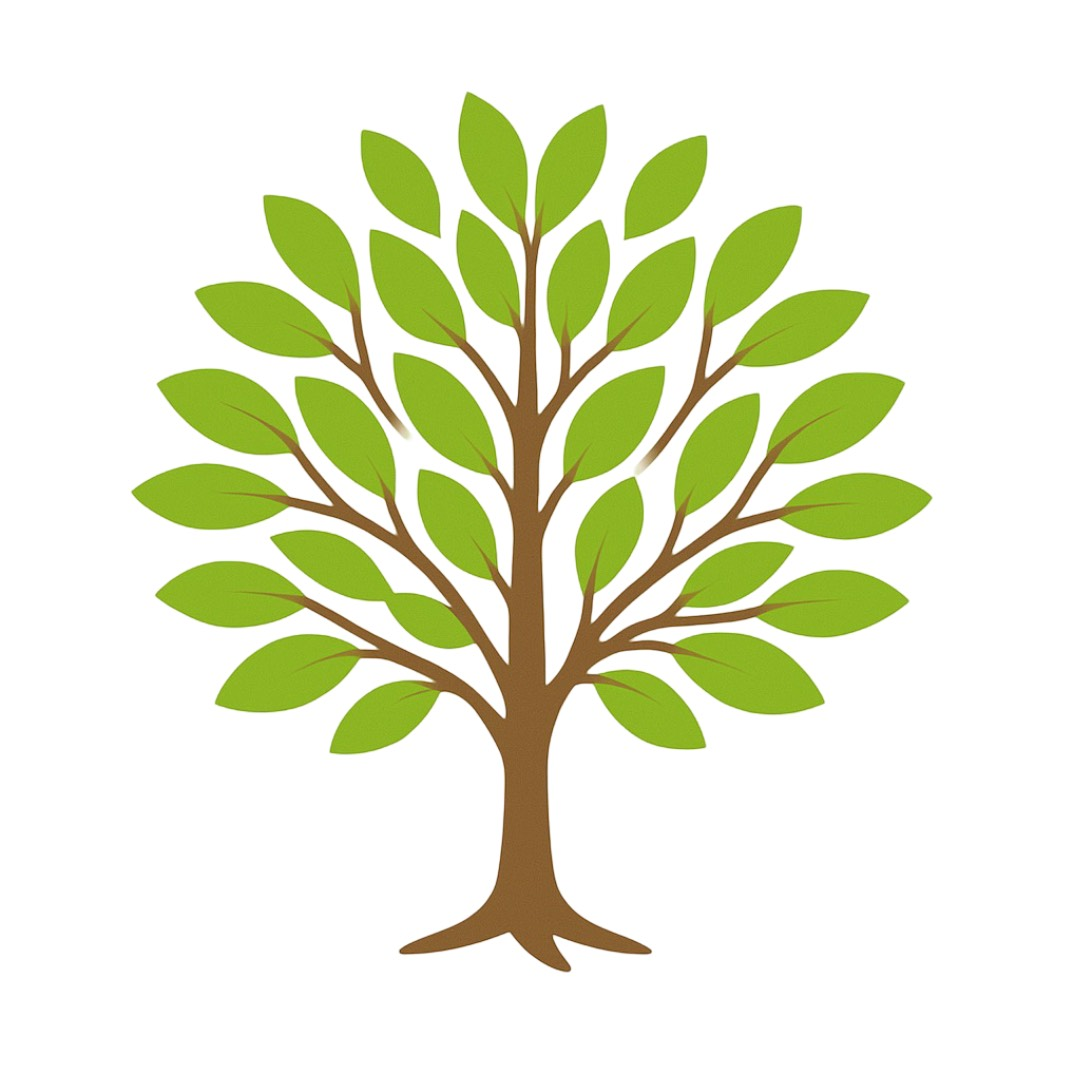
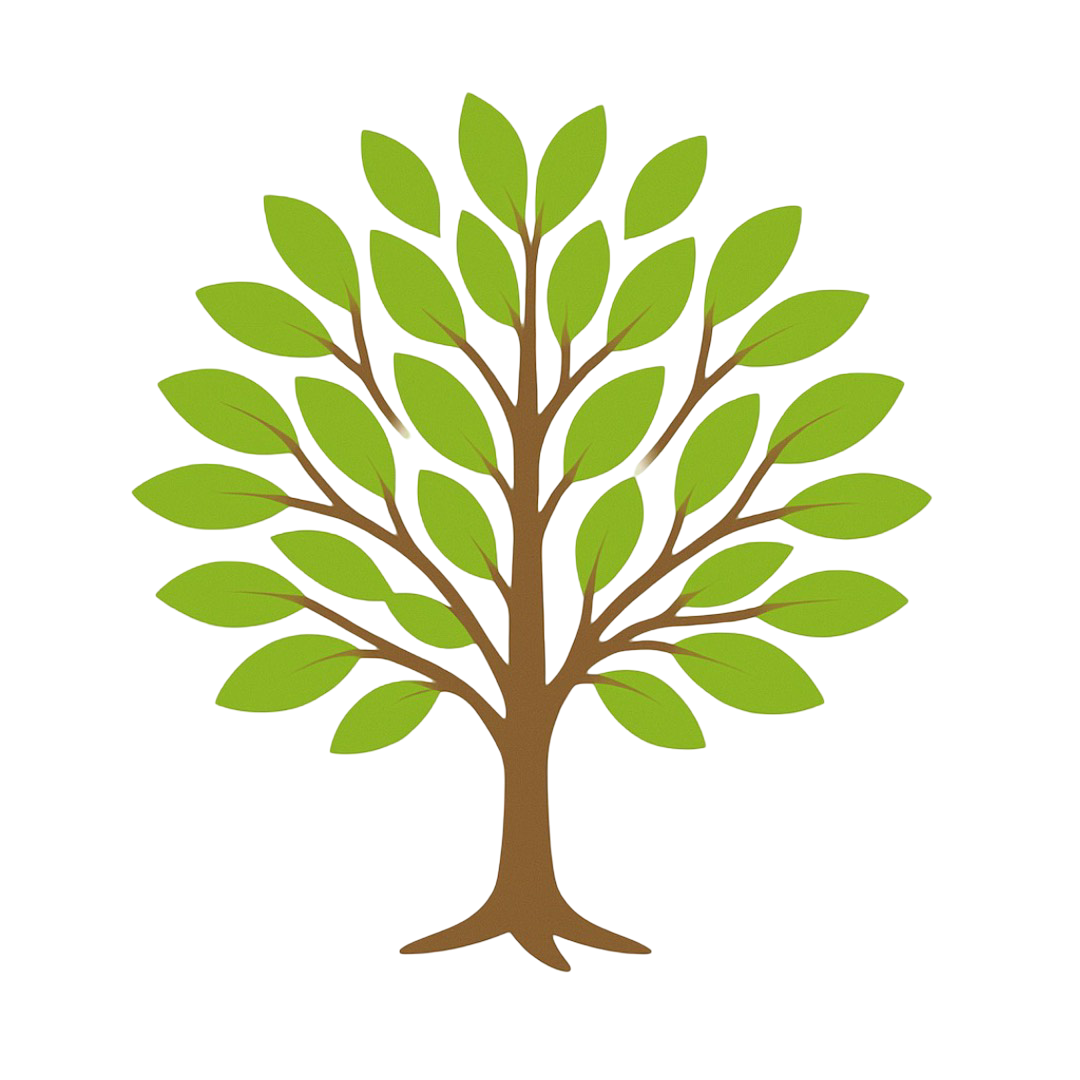
all tree models

Changed region(s): [[0.6417, 0.55, 0.7028, 0.5806], [0.6111, 0.4889, 0.6722, 0.5194], [0.3361, 0.3667, 0.3667, 0.3972]]

diff --git a/screens/TreeScreen.tsx b/screens/TreeScreen.tsx
@@ -1,6 +1,17 @@
 import React, { useState } from 'react';
 import { View, Text, Image, ImageBackground, StyleSheet, ScrollView, TouchableOpacity } from 'react-native';
 
+// Preload all tree graphics
+const treeImages = {
+  tree_1: require('../assets/tree/tree_1.png'),
+  tree_2: require('../assets/tree/tree_2.png'),
+  tree_3: require('../assets/tree/tree_3.png'),
+  tree_4: require('../assets/tree/tree_4.png'),
+  tree_5: require('../assets/tree/tree_5.png'),
+  tree_6: require('../assets/tree/tree_6.png'),
+  tree_7: require('../assets/tree/tree_7.png'),
+};
+
 export default function TreeScreen({
   goodHabits = [],
   badHabits = [],
@@ -24,8 +35,17 @@ export default function TreeScreen({
   decay?: number;
   setDecay?: (d: number) => void;
 }) {
-  const [expToLevel, setExpToLevel] = React.useState(100); // First level requires 100 exp
-  const [treeStage, setTreeStage] = React.useState(1); // 1: tree_1, 2: tree_2
+  // Tree stages and exp requirements
+  const expStages = [100, 200, 300, 400, 500, 600, 700];
+  // Use percentages for top position for responsive layout
+  const treeStageTops = ['57%', '55%', '52%', '48%', '46%', '46%', '46%']; // % top for each stage
+  const treeStageScales = [1, 1.2, 1.7, 2.4, 2.7, 2.7, 2.8]; // scale for each stage
+  const [treeStage, setTreeStage] = React.useState(1); // 1: tree_1, ..., 7: tree_7
+  const [expToLevel, setExpToLevel] = React.useState(expStages[0]);
+  const treeStageTop = treeStageTops[treeStage - 1];
+  // Convert percentage string to number for marginTop
+  const treeStageMarginTop = parseInt(treeStageTop);
+  const treeStageScale = treeStageScales[treeStage - 1];
 
   // Decay gain scaling by level (should match HabitsScreen)
   const decayGainByLevel = [10, 8, 6, 4, 2];
@@ -62,9 +82,10 @@ export default function TreeScreen({
       let newExp = exp + expGain;
       if (newExp >= expToLevel) {
         // Level up: change tree, reset exp, increase max exp
-        setTreeStage(2); // update tree first for instant switch
+        const nextStage = Math.min(treeStage + 1, 7);
+        setTreeStage(nextStage); // update tree first for instant switch
         if (setExp) setExp(0);
-        setExpToLevel(200);
+        setExpToLevel(expStages[nextStage - 1]);
         if (setCoins && typeof coins === 'number') setCoins(coins + coinGain);
         return;
       }
@@ -102,15 +123,18 @@ export default function TreeScreen({
       <View style={{flex: 7}}>
         <ImageBackground source={require('../assets/tree_background.png')} style={styles.treeBg}>
           {/* Tree image in the middle of the screen, centered horizontally, with independent position for each stage */}
-          {treeStage === 1 ? (
-            <View style={{ position: 'absolute', top: '57%', left: '50%', transform: [{ translateX: -41.5 }], zIndex: 2 }}>
-              <Image source={require('../assets/tree/tree_1.png')} style={{ width: 83, height: 83, resizeMode: 'contain' }} />
-            </View>
-          ) : (
-            <View style={{ position: 'absolute', top: '56%', left: '50%', transform: [{ translateX: -41.5 }], zIndex: 2 }}>
-              <Image source={require('../assets/tree/tree_2.png')} style={{ width: 83, height: 83, resizeMode: 'contain' }} />
-            </View>
-          )}
+          {/* Tree image in the middle of the screen, centered horizontally, with independent position for each stage */}
+          <View style={{ position: 'absolute', top: 0, left: '50%', transform: [{ translateX: -41.5 }], zIndex: 2, marginTop: `${treeStageMarginTop}%` }}>
+            <Image
+              source={(treeImages as any)[`tree_${treeStage}`]}
+              style={{
+                width: 83,
+                height: 83,
+                resizeMode: 'contain',
+                transform: [{ scale: treeStageScale }],
+              }}
+            />
+          </View>
           <View style={styles.screen}>
             {/* Other content can go here */}
           </View>

diff --git a/screens/HabitsScreen.tsx b/screens/HabitsScreen.tsx
@@ -49,8 +49,9 @@ export default function HabitsScreen({
   const [editGoldLevel, setEditGoldLevel] = useState(1);
 
   // Upgrade handlers for good and bad habits
-  const upgradeCosts = [10, 20, 50, 100, 100];
-  const getUpgradeCost = (level: number) => upgradeCosts[level - 1] || 100;
+  const upgradeCosts = [10, 50, 100, 500, 1000];
+  // Now, cost for upgrading from n to n+1 is upgradeCosts[n]
+  const getUpgradeCost = (level: number) => upgradeCosts[level] || upgradeCosts[upgradeCosts.length - 1];
   const MAX_LEVEL = 5;
 
   // Decay gain scaling by level
@@ -138,7 +139,7 @@ export default function HabitsScreen({
     if (newHabit.trim()) {
       setGoodHabits([
         ...goodHabits,
-        { name: newHabit.trim(), expLevel: 1, goldLevel: 1 },
+        { name: newHabit.trim(), expLevel: 0, goldLevel: 0 },
       ]);
       setNewHabit('');
       setModalVisible(false);
@@ -176,7 +177,7 @@ export default function HabitsScreen({
     if (newBadHabit.trim()) {
       setBadHabits([
         ...badHabits,
-        { name: newBadHabit.trim(), decayLevel: 1, expLossLevel: 1 },
+        { name: newBadHabit.trim(), decayLevel: 0, expLossLevel: 0 },
       ]);
       setNewBadHabit('');
       setBadModalVisible(false);

diff --git a/App.tsx b/App.tsx
@@ -19,7 +19,7 @@ export default function App() {
   const [badHabits, setBadHabits] = useState<
     { name: string; decayLevel: number; expLossLevel: number }[]
   >([]);
-  const [coins, setCoins] = useState(1000);
+  const [coins, setCoins] = useState(5000);
   const [gems, setGems] = useState(10);
   const [exp, setExp] = useState(0);
   const [decay, setDecay] = useState(0);
